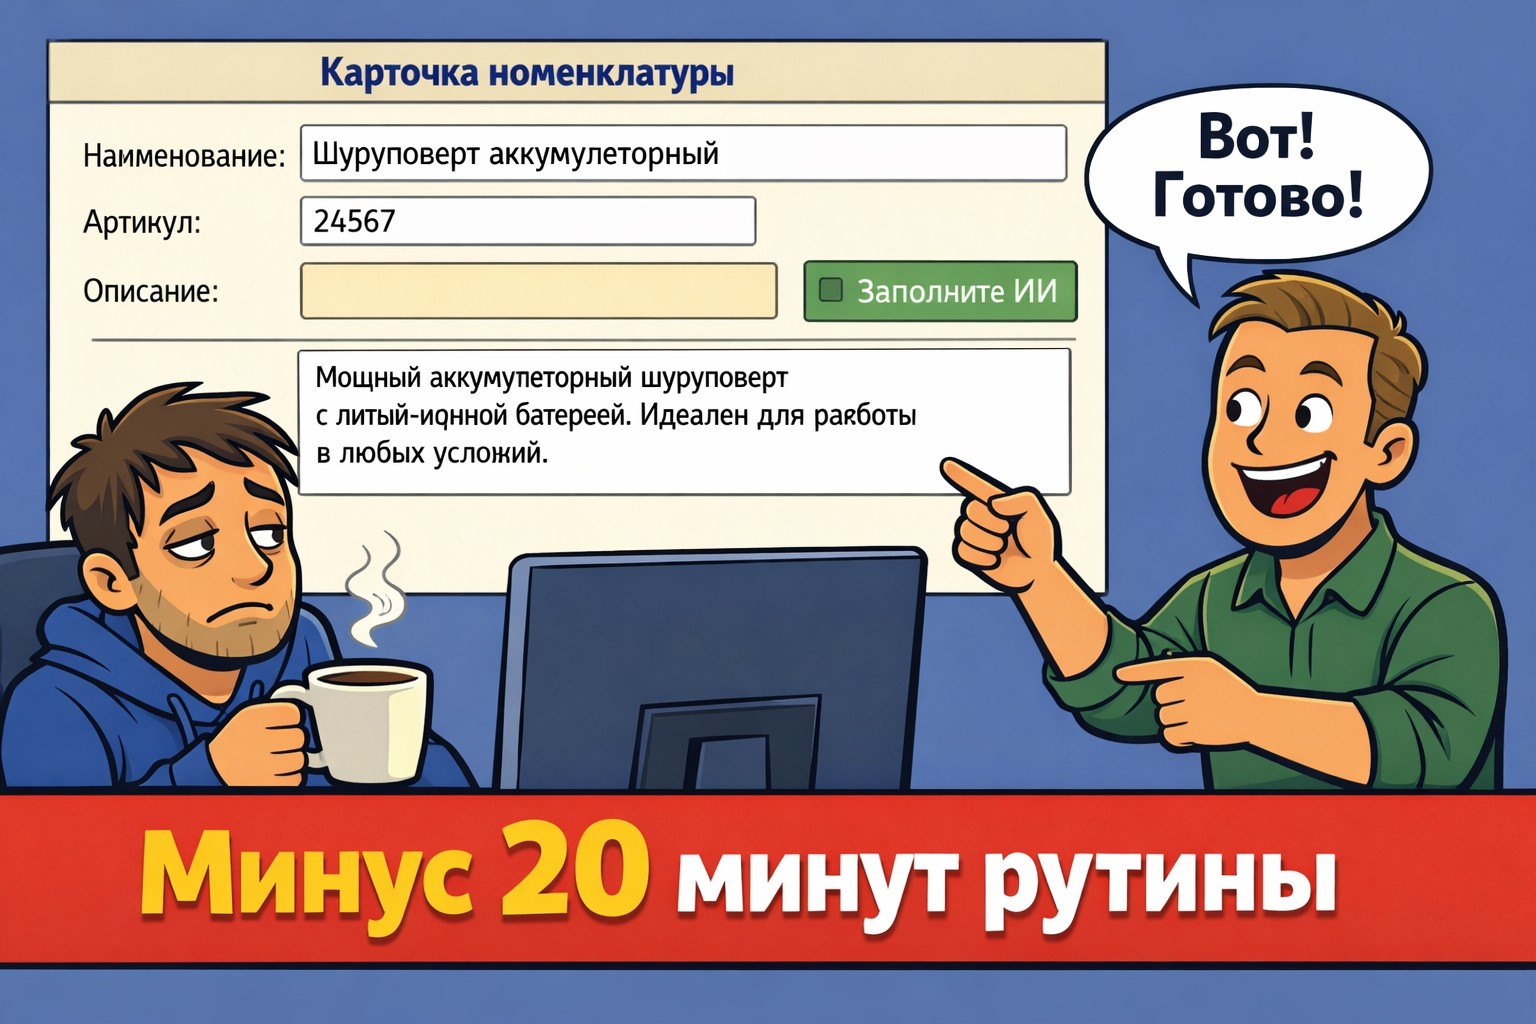
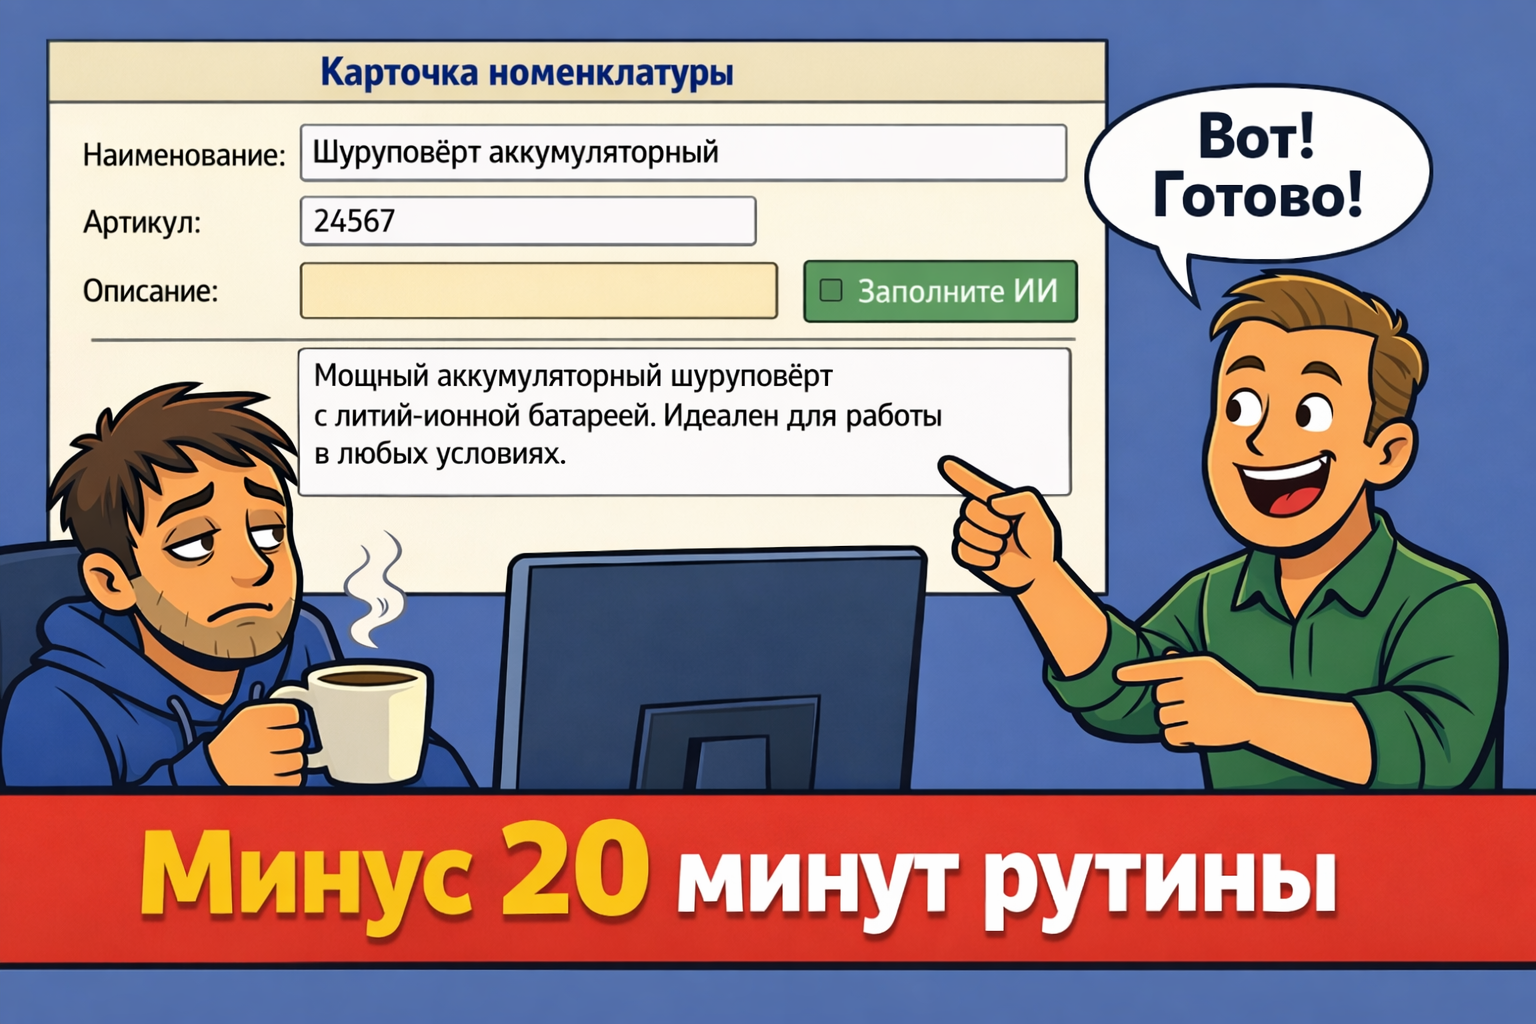
docs: добавлено тестирование расширения с перечислением поддерживаемых конфигураций и версий

diff --git a/articles/opensource_130226/is/article.html b/articles/opensource_130226/is/article.html
@@ -73,6 +73,20 @@
 
 <p>Готовые <code>.cfe</code> публикуются в релизах GitHub (выбирайте сборку под свою конфигурацию).</p>
 
+<h3>Тестирование</h3>
+
+<p>Расширение проходило тестирование на следующих конфигурациях и версиях:</p>
+
+<ul>
+	<li><strong>УНФ</strong> &mdash; с 3.0.2.215 по 3.0.13.251</li>
+	<li><strong>1С:Розница</strong> &mdash; с 3.0.2.215 по 3.0.13.251</li>
+	<li><strong>1С:ERP Управление предприятием</strong> &mdash; с 2.5.11.79 по 2.5.25.101</li>
+	<li><strong>УТ 11</strong> &mdash; 11.5.11.79</li>
+	<li><strong>КА</strong> &mdash; 2.5.11.79</li>
+</ul>
+
+<p>Продукт также работает на <strong>1С:Фреш</strong> и проходит проверку совместимости на всех версиях, выпускаемых для указанных конфигураций.</p>
+
 <h2 id="install">Установка (типовой сценарий)</h2>
 
 <ol>
